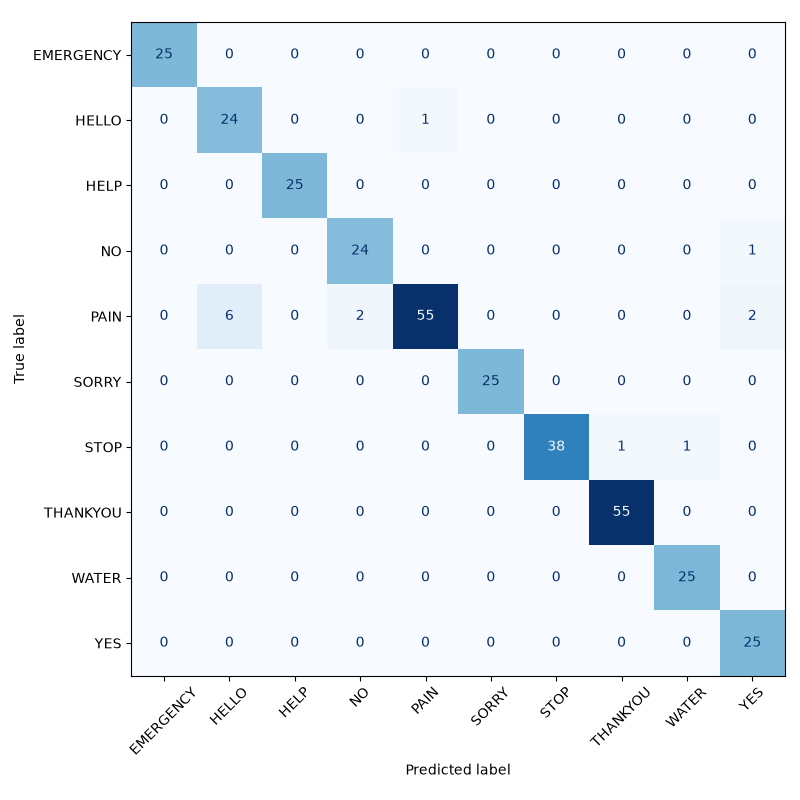
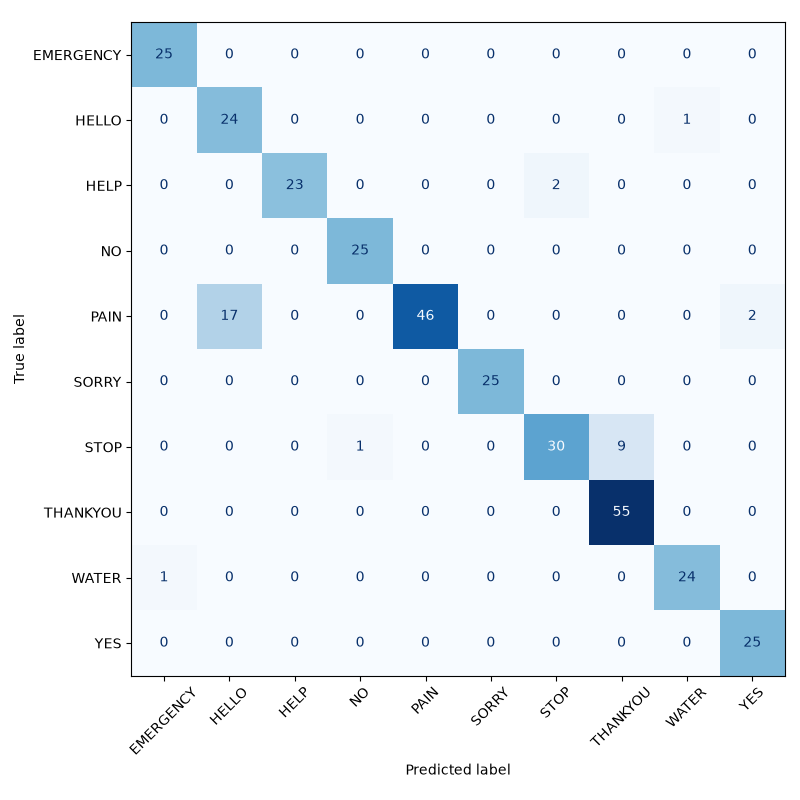
added live. app

Changed region(s): [[0.6562, 0.5, 0.8438, 0.625], [0.4688, 0.3438, 0.5938, 0.4375], [0.2188, 0.3438, 0.3438, 0.4375]]

diff --git a/live_app.py b/live_app.py
@@ -1,0 +1,196 @@
+
+import collections
+import json
+import os
+import threading
+
+import cv2
+import numpy as np
+import pyttsx3
+import mediapipe as mp
+from mediapipe.tasks import python as mp_python
+from mediapipe.tasks.python import vision
+from tensorflow import keras
+
+MODEL_PATH_TASK = "hand_landmarker.task"
+MODEL_PATH_KERAS = "models/best_model.keras"
+LABELS_PATH = "data/processed/labels.json"
+
+SEQ_LEN = 40
+WRIST_IDX = 0
+MIDDLE_MCP_IDX = 9
+EPS = 1e-6
+
+CONFIDENCE_THRESHOLD = 0.80   
+SMOOTHING_WINDOW = 7          
+COOLDOWN_FRAMES = 25          
+
+
+
+
+class Speaker:
+    def __init__(self):
+        self.engine = pyttsx3.init()
+        self.lock = threading.Lock()
+
+    def say(self, text):
+        threading.Thread(target=self._say_now, args=(text,), daemon=True).start()
+
+    def _say_now(self, text):
+        with self.lock:
+            self.engine.say(text)
+            self.engine.runAndWait()
+
+
+
+
+def build_detector():
+    base_options = mp_python.BaseOptions(model_asset_path=MODEL_PATH_TASK)
+    options = vision.HandLandmarkerOptions(
+        base_options=base_options,
+        num_hands=2,
+        min_hand_detection_confidence=0.6,
+        min_tracking_confidence=0.6,
+        running_mode=vision.RunningMode.VIDEO,
+    )
+    return vision.HandLandmarker.create_from_options(options)
+
+
+def corrected_label(raw_label):
+    return "Right" if raw_label == "Left" else "Left"
+
+
+def extract_landmarks(result):
+    left = np.zeros(21 * 3)
+    right = np.zeros(21 * 3)
+    if result.hand_landmarks and result.handedness:
+        for hand_landmarks, handedness in zip(result.hand_landmarks, result.handedness):
+            coords = np.array([[lm.x, lm.y, lm.z] for lm in hand_landmarks]).flatten()
+            label = corrected_label(handedness[0].category_name)
+            if label == "Left":
+                left = coords
+            else:
+                right = coords
+    return np.concatenate([left, right])
+
+
+def draw_landmarks_simple(frame, result):
+    if not result.hand_landmarks:
+        return
+    h, w, _ = frame.shape
+    for hand_landmarks in result.hand_landmarks:
+        for lm in hand_landmarks:
+            cx, cy = int(lm.x * w), int(lm.y * h)
+            cv2.circle(frame, (cx, cy), 3, (0, 0, 255), -1)
+
+
+
+def normalize_hand(hand_vec63):
+    if not np.any(hand_vec63):
+        return hand_vec63
+    points = hand_vec63.reshape(21, 3)
+    wrist = points[WRIST_IDX]
+    translated = points - wrist
+    scale_ref = max(np.linalg.norm(translated[MIDDLE_MCP_IDX]), EPS)
+    return (translated / scale_ref).flatten()
+
+
+def normalize_sequence(seq):
+    normalized = np.zeros_like(seq)
+    for i, frame in enumerate(seq):
+        normalized[i, :63] = normalize_hand(frame[:63])
+        normalized[i, 63:] = normalize_hand(frame[63:])
+    return normalized
+
+
+
+
+def main():
+    if not os.path.exists(MODEL_PATH_KERAS):
+        print(f"Model not found at {MODEL_PATH_KERAS}. Run train.py first.")
+        return
+
+    with open(LABELS_PATH) as f:
+        label_maps = json.load(f)
+    index_to_label = {int(k): v for k, v in label_maps["index_to_label"].items()}
+    num_classes = len(index_to_label)
+
+    print("Loading model...")
+    model = keras.models.load_model(MODEL_PATH_KERAS)
+    speaker = Speaker()
+
+    cap = cv2.VideoCapture(0)
+    detector = build_detector()
+    timestamp = 0
+
+    frame_buffer = collections.deque(maxlen=SEQ_LEN)
+    recent_predictions = collections.deque(maxlen=SMOOTHING_WINDOW)
+
+    last_spoken_label = None
+    cooldown_counter = 0
+    current_display_text = "..."
+    current_confidence = 0.0
+
+    print("Live app running. Press q to quit.")
+
+    while cap.isOpened():
+        ok, frame = cap.read()
+        if not ok:
+            break
+        frame = cv2.flip(frame, 1)
+        rgb = cv2.cvtColor(frame, cv2.COLOR_BGR2RGB)
+        mp_image = mp.Image(image_format=mp.ImageFormat.SRGB, data=rgb)
+        timestamp += 33
+        result = detector.detect_for_video(mp_image, timestamp)
+        draw_landmarks_simple(frame, result)
+
+        landmarks = extract_landmarks(result)
+        frame_buffer.append(landmarks)
+
+        if cooldown_counter > 0:
+            cooldown_counter -= 1
+
+        if len(frame_buffer) == SEQ_LEN:
+            seq = np.array(frame_buffer)
+            normalized_seq = normalize_sequence(seq)
+            probs = model.predict(normalized_seq[np.newaxis, ...], verbose=0)[0]
+            top_idx = int(np.argmax(probs))
+            top_conf = float(probs[top_idx])
+
+            if top_conf >= CONFIDENCE_THRESHOLD:
+                recent_predictions.append(index_to_label[top_idx])
+            else:
+                recent_predictions.append(None)
+
+            current_display_text = index_to_label[top_idx] if top_conf >= CONFIDENCE_THRESHOLD else "..."
+            current_confidence = top_conf
+
+            if (len(recent_predictions) == SMOOTHING_WINDOW
+                    and len(set(recent_predictions)) == 1
+                    and recent_predictions[0] is not None):
+                confirmed_label = recent_predictions[0]
+
+                if confirmed_label != last_spoken_label or cooldown_counter == 0:
+                    speaker.say(confirmed_label)
+                    last_spoken_label = confirmed_label
+                    cooldown_counter = COOLDOWN_FRAMES
+                    print(f"Confirmed + spoken: {confirmed_label} ({top_conf:.2f})")
+
+
+        cv2.putText(frame, f"Prediction: {current_display_text}", (10, 30),
+                    cv2.FONT_HERSHEY_SIMPLEX, 0.8, (0, 255, 0), 2)
+        cv2.putText(frame, f"Confidence: {current_confidence*100:.0f}%", (10, 65),
+                    cv2.FONT_HERSHEY_SIMPLEX, 0.7, (0, 255, 255), 2)
+        cv2.putText(frame, "q = quit", (10, frame.shape[0] - 15),
+                    cv2.FONT_HERSHEY_SIMPLEX, 0.6, (200, 200, 200), 1)
+
+        cv2.imshow("ISL Live Recognition", frame)
+        if cv2.waitKey(1) & 0xFF == ord("q"):
+            break
+
+    cap.release()
+    cv2.destroyAllWindows()
+
+
+if __name__ == "__main__":
+    main()
